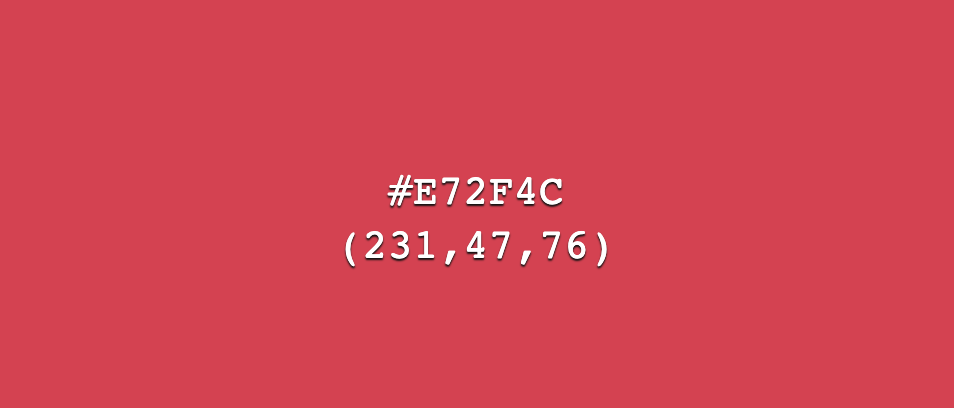
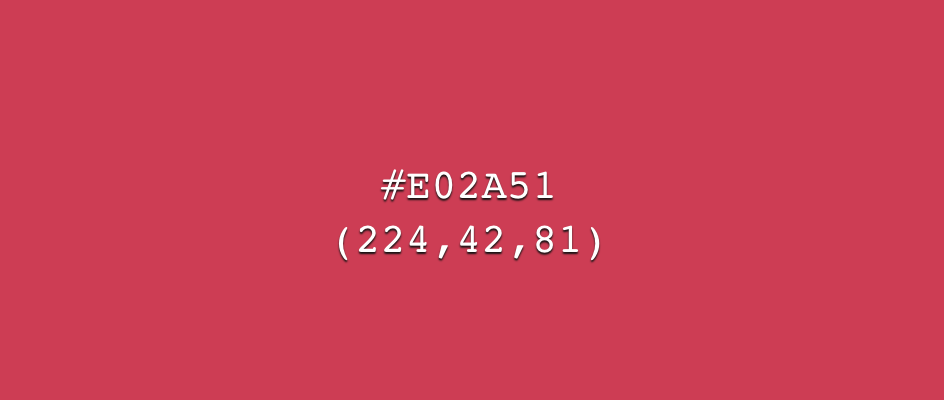
Updated skeleton

Changed region(s): [[0.3379, 0.54, 0.6451, 0.66], [0.3994, 0.42, 0.6144, 0.51]]

diff --git a/readme/skeleton/README.md b/readme/skeleton/README.md
@@ -318,6 +318,7 @@ During development the site's layout was restructured a little bit, because this
 2. The product details page was skipped to make the ordering proces more customer friendly. The explanation about the paper types was moved to the FAQ page and instead of having to make first a paper choice in the menu and then a size choice on an extra page, the choice was made to do this in the menu right away.
 3. The shopping cart was restuctured a bit to make it more logical and easy to read for the customer.
 4. The dashboard was altered a bit, the huge red block was not found visually appealing and because of the time the status of the order was moved to be an update for the future. Same goes for the admin version of the dashboard.
-<!-- 5. The 2 language option has been moved to a future update due to lack of time. -->
+5. The switch language option has been moved to a future update due to lack of time, due to handing in the project within the deadline and personal circumstances.
+6. The red color #E72F4C  was changed to #E02A51 for better contrast.
 
 <div align="right"><a href="#top">🔝</a></div>
